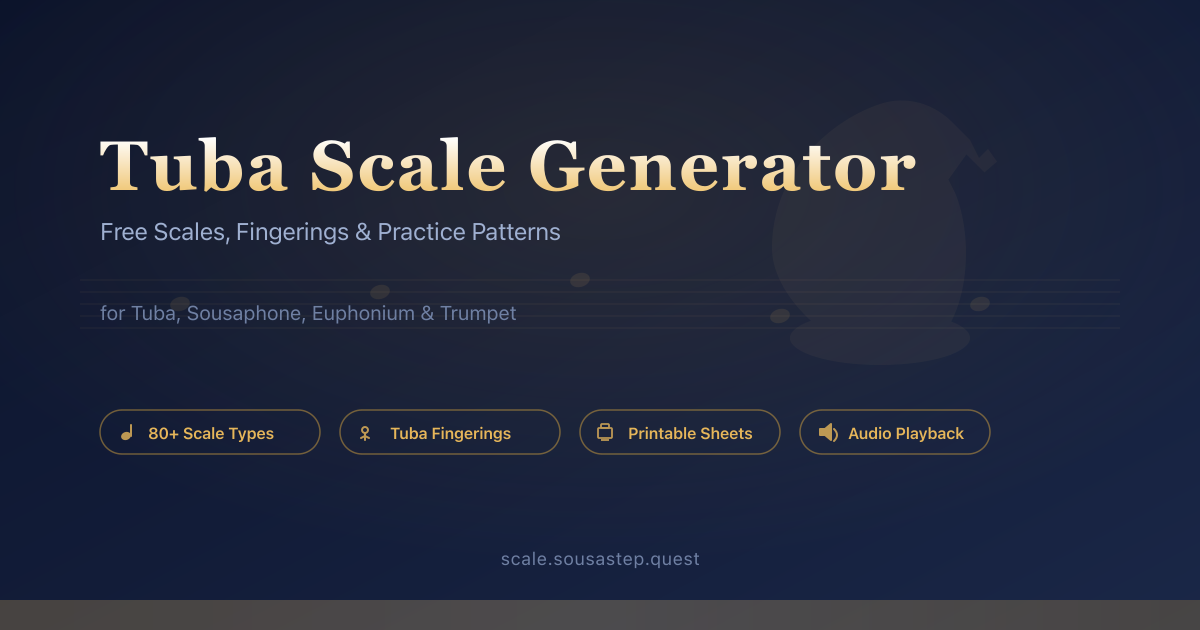
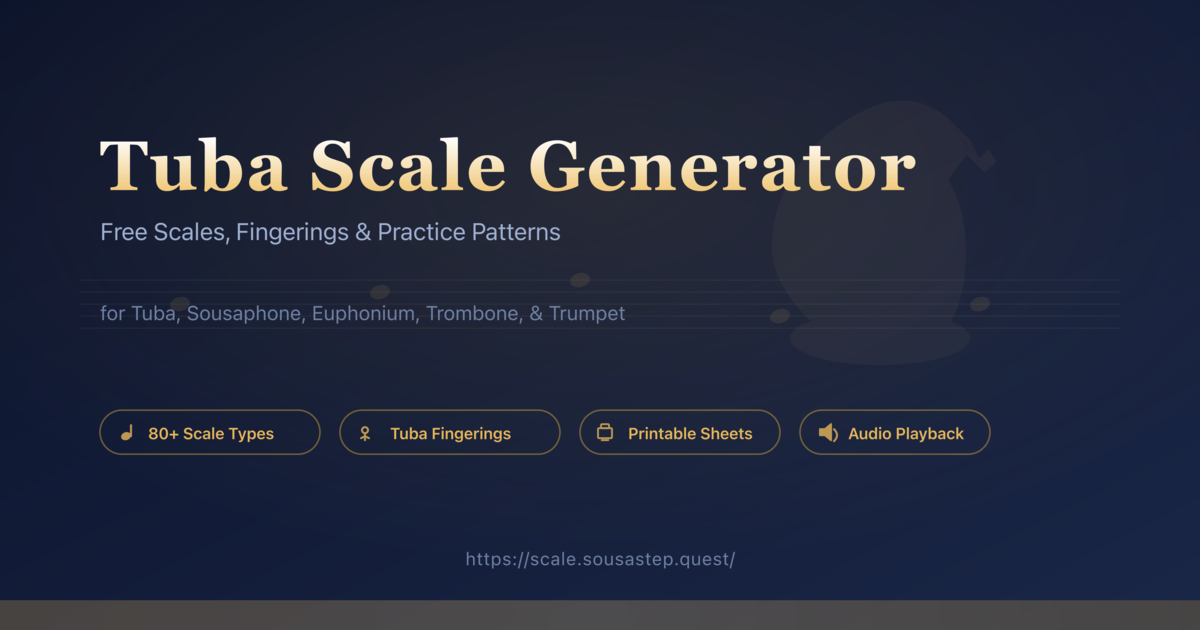
improve phrases

Changed region(s): [[0.37, 0.8746, 0.6167, 0.9048], [0.3392, 0.4825, 0.5242, 0.5127]]

diff --git a/index.html b/index.html
@@ -11,7 +11,7 @@
 
   <!-- Open Graph -->
   <meta property="og:title" content="Tuba Scale Generator — Free Scales, Fingerings &amp; Practice Patterns" />
-  <meta property="og:description" content="Interactive scale generator for tuba, euphonium, trombone &amp; sousaphone players. Fingerings, printable sheet music, audio playback, and 80+ scale types." />
+  <meta property="og:description" content="Interactive scale generator for tuba, euphonium, trombone, &amp; trumpet players. Fingerings, printable sheet music, audio playback, and 80+ scale types." />
   <meta property="og:type" content="website" />
   <meta property="og:url" content="https://scale.sousastep.quest/" />
   <meta property="og:locale" content="en_US" />
@@ -23,7 +23,7 @@
   <!-- Twitter Card -->
   <meta name="twitter:card" content="summary_large_image" />
   <meta name="twitter:title" content="Tuba Scale Generator — Free Scales, Fingerings &amp; Practice Patterns" />
-  <meta name="twitter:description" content="Interactive scale generator for tuba, euphonium, trombone &amp; sousaphone players. Fingerings, sheet music &amp; audio playback." />
+  <meta name="twitter:description" content="Interactive scale generator for tuba, euphonium, trombone, &amp; trumpet players. Fingerings, sheet music &amp; audio playback." />
   <meta name="twitter:image" content="https://scale.sousastep.quest/og-image.png" />
 
   <link rel="icon" type="image/svg+xml" href="favicon.svg" />
@@ -40,7 +40,7 @@
     "@type": "WebApplication",
     "name": "Tuba Scale Generator",
     "url": "https://scale.sousastep.quest/",
-    "description": "Interactive scale generator for tuba, euphonium, trombone and sousaphone players. Practice scales with fingerings, printable sheet music, and audio playback.",
+    "description": "Interactive scale generator for tuba, euphonium, trombone, and trumpet players. Practice scales with fingerings, printable sheet music, and audio playback.",
     "applicationCategory": "Education",
     "operatingSystem": "Any",
     "offers": {
